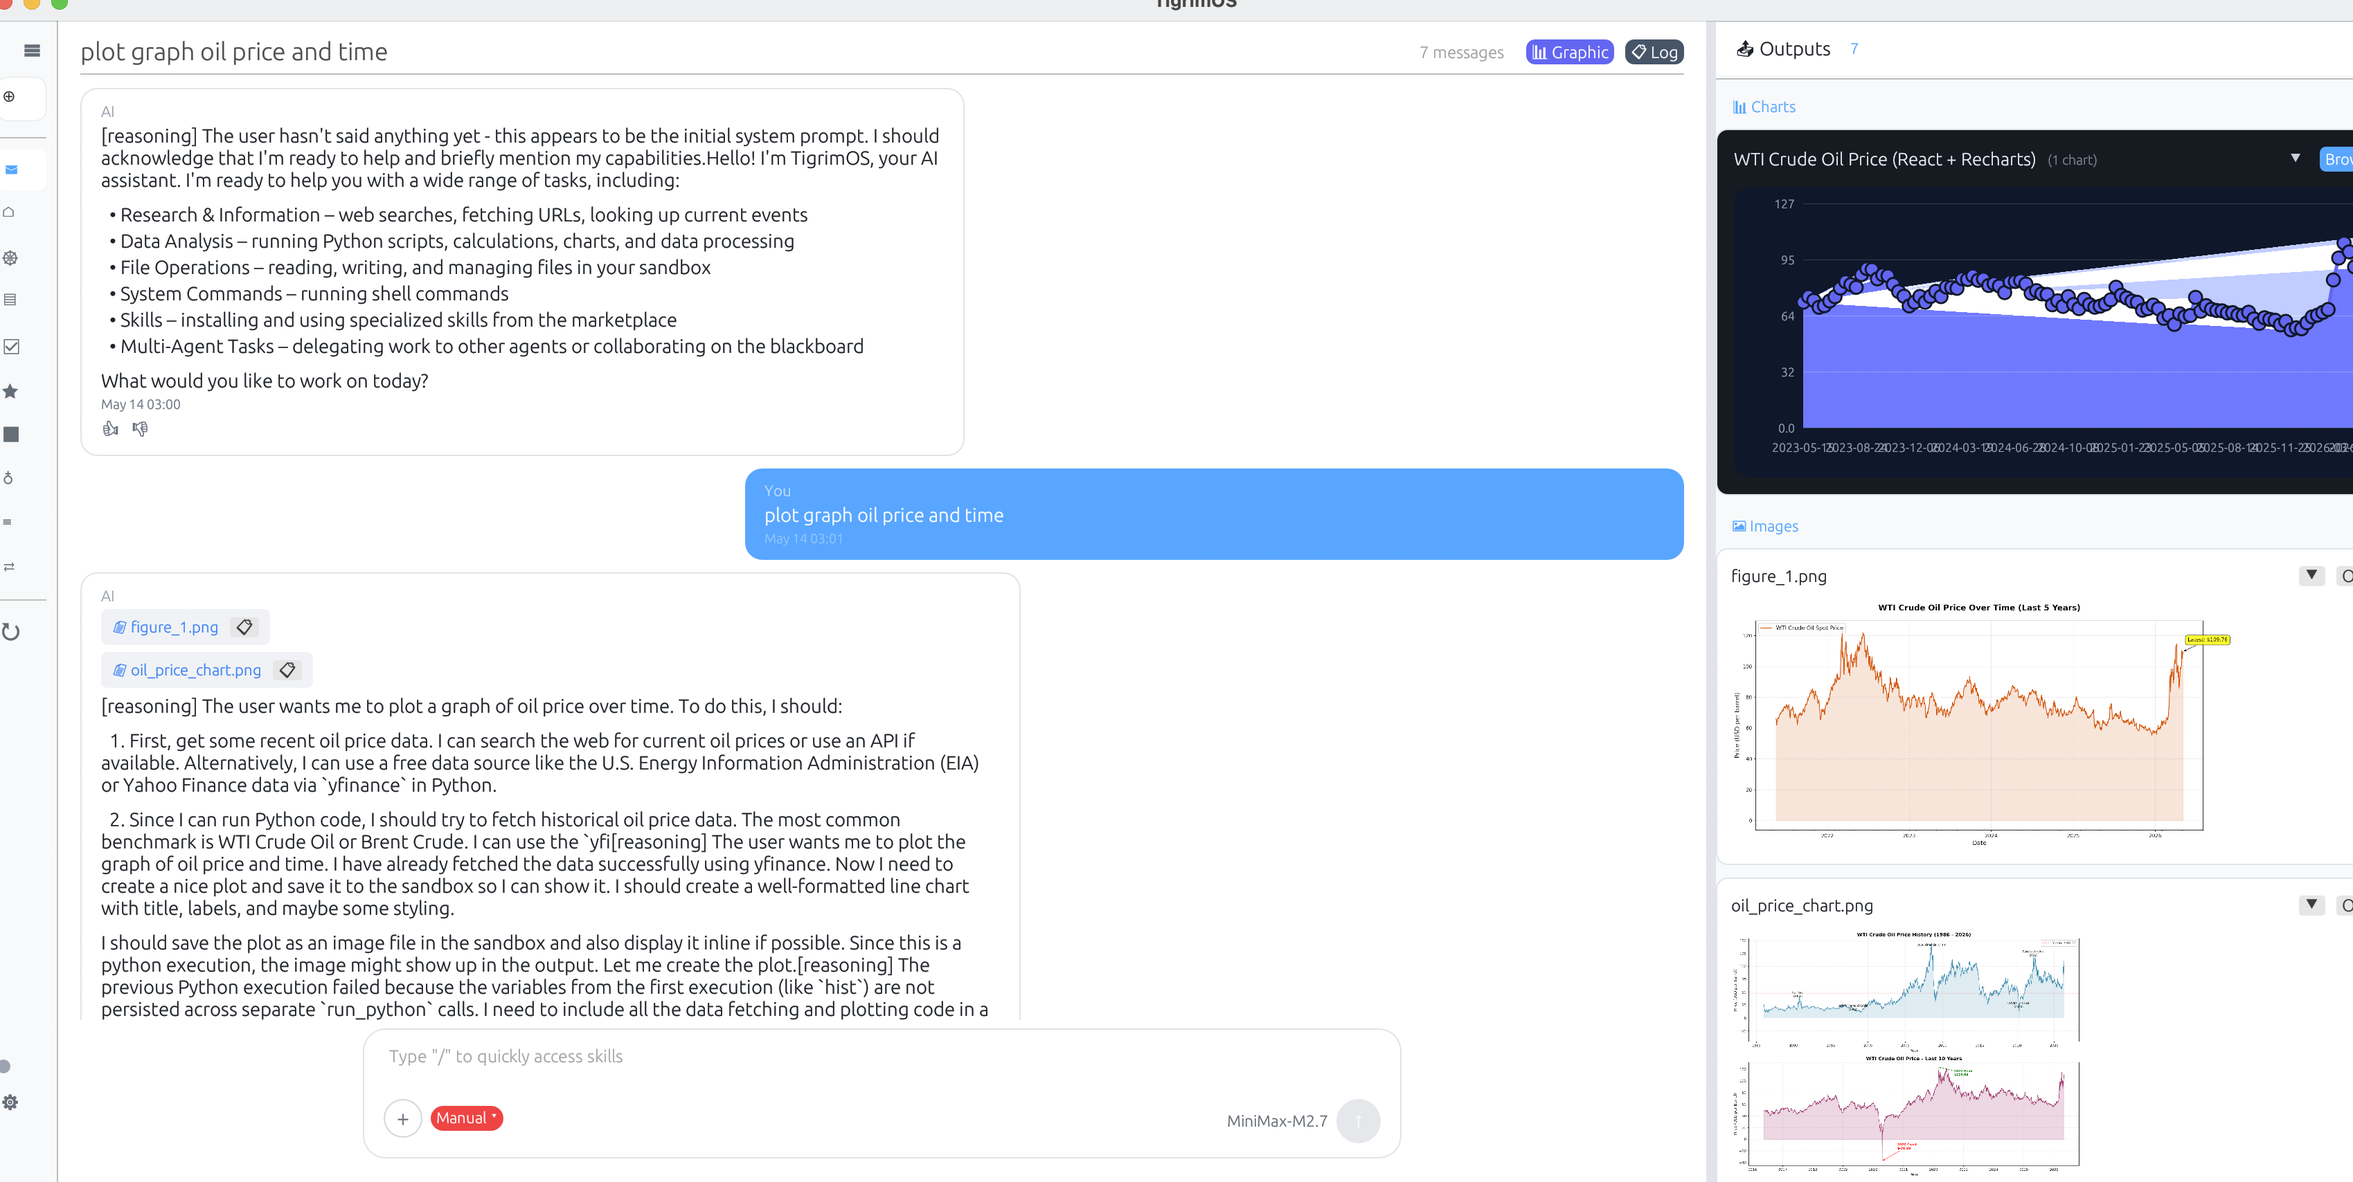
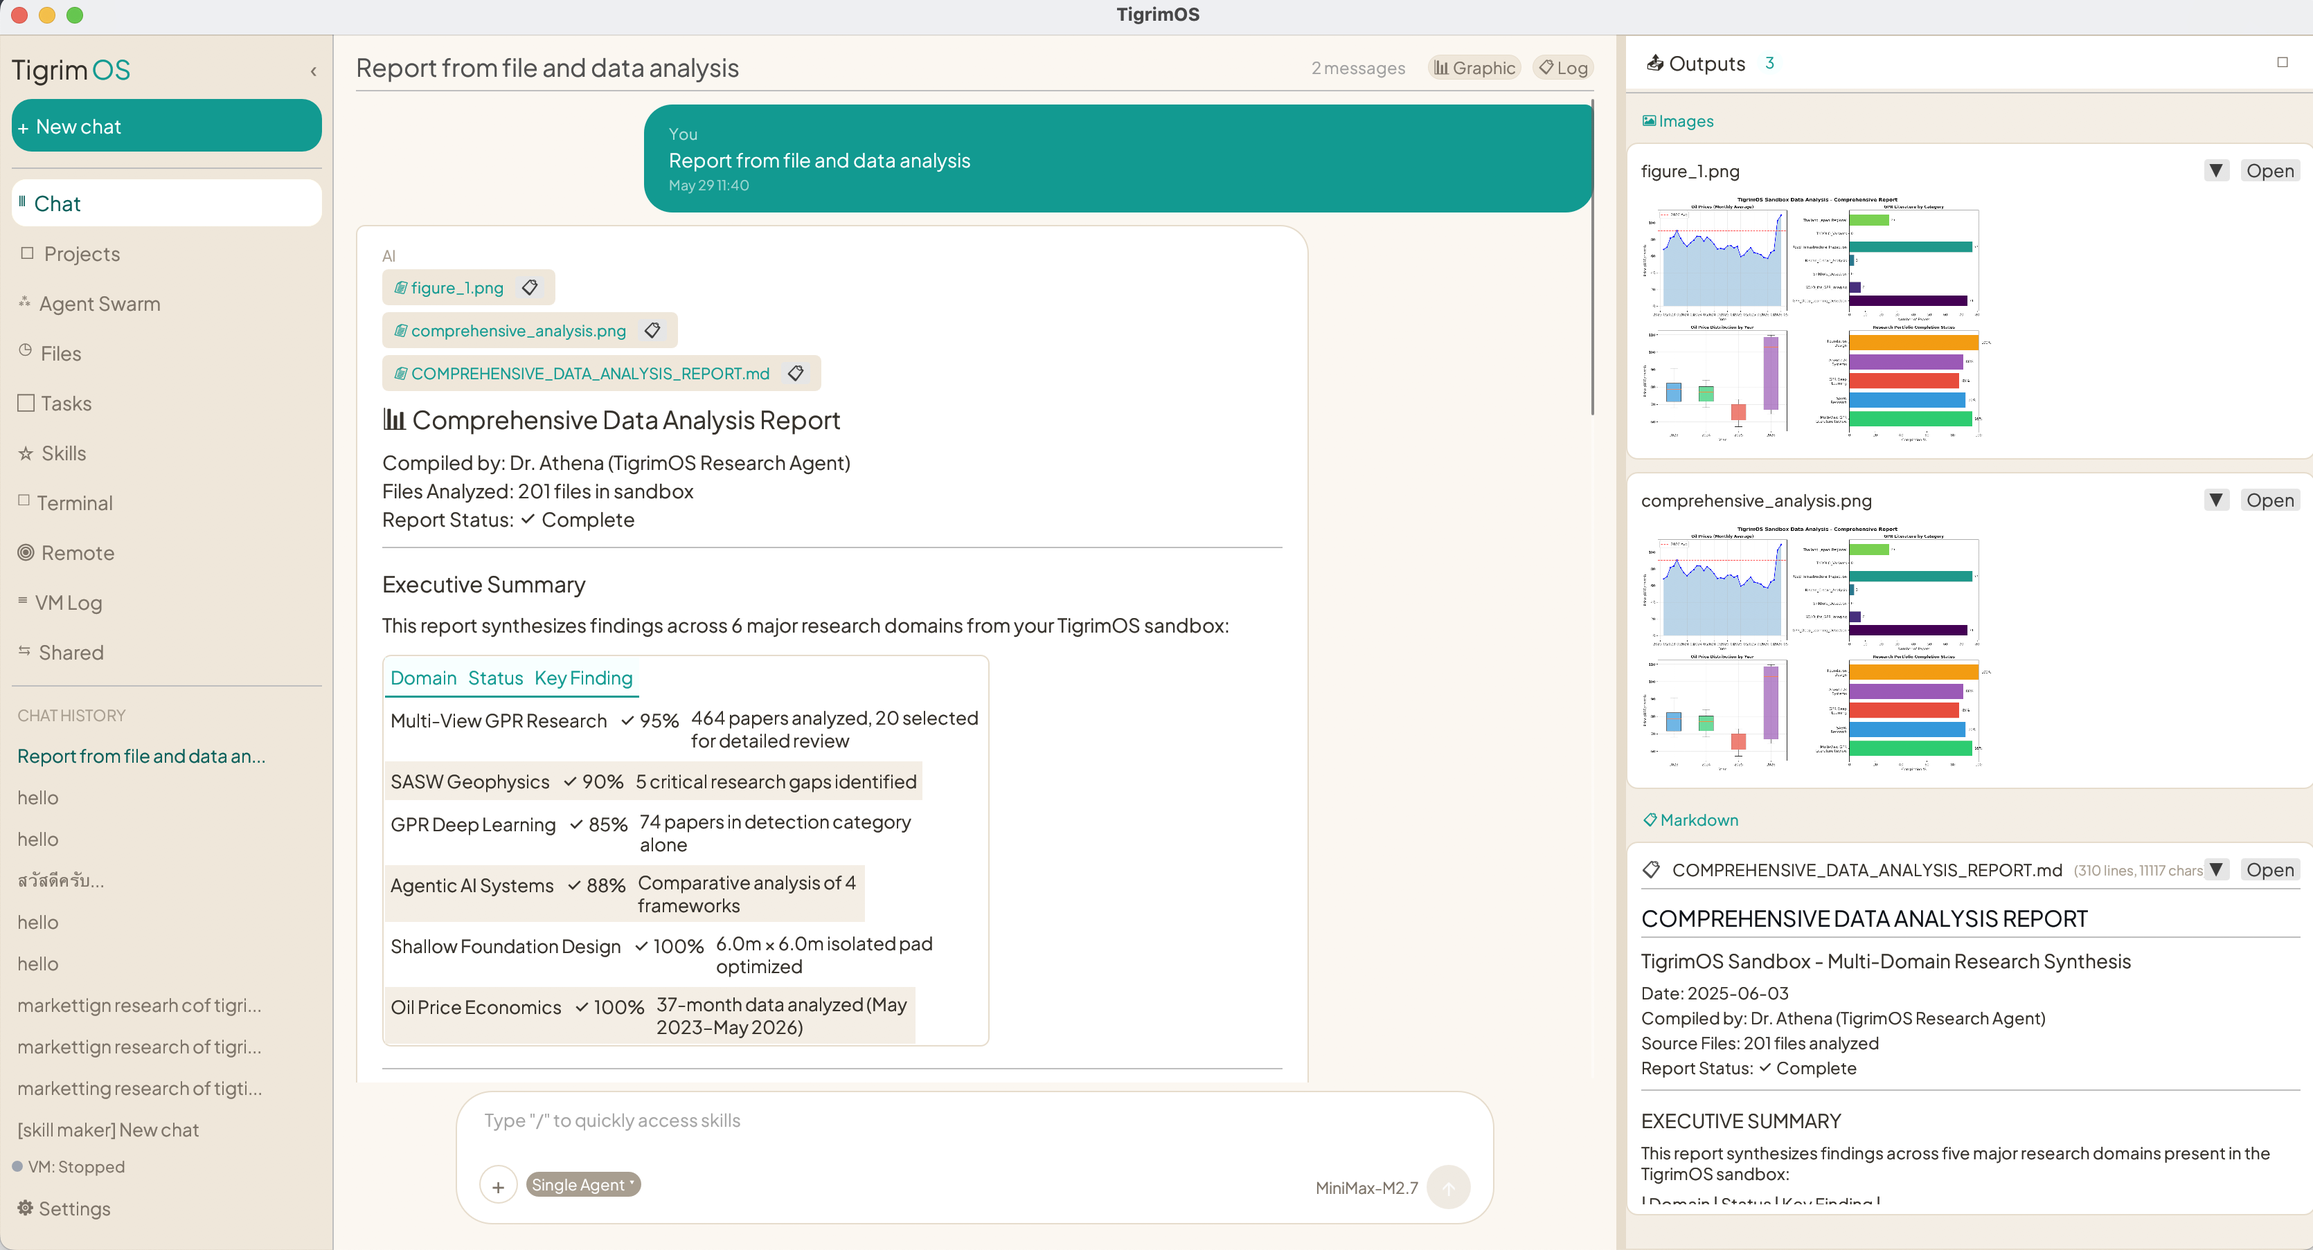
style: Warm theme for Files/Settings, remove chat bubble border, update screenshots
Apply warm neutral palette to files_view.rs and settings.rs (sidebar, text, borders,
highlights, tab bar). Remove AI chat bubble stroke and Agent Swarm separators.
Update README screenshots to reflect the new theme.

diff --git a/src/ui/files_view.rs b/src/ui/files_view.rs
@@ -798,7 +798,7 @@ impl FilesView {
                 ui.label(
                     egui::RichText::new(trimmed)
                         .monospace()
-                        .color(egui::Color32::from_rgb(150, 150, 150)),
+                        .color(egui::Color32::from_rgb(168, 158, 144)),
                 );
             } else if trimmed.is_empty() {
                 ui.add_space(4.0);
@@ -891,9 +891,9 @@ impl FilesView {
     // ── Sidebar rendering ──
 
     fn render_sidebar(&mut self, ui: &mut egui::Ui) {
-        let sidebar_bg = egui::Color32::from_rgb(247, 247, 248);
-        let text_dim = egui::Color32::from_rgb(100, 100, 105);
-        let text_normal = egui::Color32::from_rgb(30, 30, 32);
+        let sidebar_bg = egui::Color32::from_rgb(244, 238, 229);
+        let text_dim = egui::Color32::from_rgb(124, 115, 104);
+        let text_normal = egui::Color32::from_rgb(52, 48, 42);
         let accent = egui::Color32::from_rgb(18, 154, 145);
 
         ui.painter().rect_filled(
@@ -958,7 +958,7 @@ impl FilesView {
         for (label, section, count) in &lib_items {
             let is_active = self.active_section == *section;
             let bg = if is_active {
-                egui::Color32::from_rgb(232, 232, 235)
+                egui::Color32::from_rgb(239, 231, 218)
             } else {
                 egui::Color32::TRANSPARENT
             };
@@ -1015,7 +1015,7 @@ impl FilesView {
         for (dir_name, count) in &places_clone {
             let is_active = self.active_section == LibrarySection::Place(dir_name.clone());
             let bg = if is_active {
-                egui::Color32::from_rgb(232, 232, 235)
+                egui::Color32::from_rgb(239, 231, 218)
             } else {
                 egui::Color32::TRANSPARENT
             };
@@ -1099,7 +1099,7 @@ impl FilesView {
                 ui.painter().rect_filled(
                     bar_rect,
                     2.0,
-                    egui::Color32::from_rgb(210, 210, 215),
+                    egui::Color32::from_rgb(230, 220, 204),
                 );
                 let filled = egui::Rect::from_min_size(
                     bar_rect.min,
@@ -1345,7 +1345,7 @@ impl FilesView {
                 egui::pos2(full_rect.min.x + sidebar_w, full_rect.min.y),
                 egui::pos2(full_rect.min.x + sidebar_w, full_rect.max.y),
             ],
-            egui::Stroke::new(1.0, egui::Color32::from_rgb(230, 230, 232)),
+            egui::Stroke::new(1.0, egui::Color32::from_rgb(230, 220, 204)),
         );
 
         let mut main_ui = ui.new_child(
@@ -1358,15 +1358,15 @@ impl FilesView {
     }
 
     fn render_main_area(&mut self, ui: &mut egui::Ui, runtime: &tokio::runtime::Handle) {
-        let text_dim = egui::Color32::from_rgb(134, 134, 139);
-        let text_normal = egui::Color32::from_rgb(29, 29, 31);
+        let text_dim = egui::Color32::from_rgb(168, 158, 144);
+        let text_normal = egui::Color32::from_rgb(52, 48, 42);
         let accent = egui::Color32::from_rgb(18, 154, 145);
 
-        // White background
+        // Warm surface background
         ui.painter().rect_filled(
             ui.available_rect_before_wrap(),
             0.0,
-            egui::Color32::WHITE,
+            egui::Color32::from_rgb(251, 247, 241),
         );
 
         ui.add_space(8.0);
@@ -1485,7 +1485,7 @@ impl FilesView {
                             .size(12.0)
                             .color(egui::Color32::WHITE),
                     )
-                    .fill(egui::Color32::from_rgb(230, 230, 232))
+                    .fill(egui::Color32::from_rgb(230, 220, 204))
                     .corner_radius(6.0),
                 );
                 if new_btn.clicked() {
@@ -1544,7 +1544,7 @@ impl FilesView {
             ui.add_space(12.0);
             let search_w = 200.0_f32.min(ui.available_width() * 0.3);
             egui::Frame::NONE
-                .fill(egui::Color32::from_rgb(240, 240, 242))
+                .fill(egui::Color32::from_rgb(239, 231, 218))
                 .corner_radius(8.0)
                 .inner_margin(egui::Margin::symmetric(8, 4))
                 .show(ui, |ui| {
@@ -1684,7 +1684,7 @@ impl FilesView {
         if !self.selected_set.is_empty() {
             ui.add_space(4.0);
             egui::Frame::NONE
-                .fill(egui::Color32::from_rgb(240, 245, 255))
+                .fill(egui::Color32::from_rgb(239, 231, 218))
                 .corner_radius(8.0)
                 .inner_margin(egui::Margin::symmetric(12, 6))
                 .outer_margin(egui::Margin::symmetric(12, 0))
@@ -1707,7 +1707,7 @@ impl FilesView {
                                         .size(12.0)
                                         .color(egui::Color32::WHITE),
                                 )
-                                .fill(egui::Color32::from_rgb(107, 114, 128))
+                                .fill(egui::Color32::from_rgb(168, 158, 144))
                                 .corner_radius(6.0),
                             )
                             .clicked()
@@ -1821,7 +1821,7 @@ impl FilesView {
                 egui::pos2(ui.min_rect().min.x + 12.0, ui.cursor().min.y),
                 egui::pos2(ui.min_rect().max.x - 8.0, ui.cursor().min.y),
             ],
-            egui::Stroke::new(0.5, egui::Color32::from_rgb(230, 230, 232)),
+            egui::Stroke::new(0.5, egui::Color32::from_rgb(230, 220, 204)),
         );
         ui.add_space(2.0);
 
@@ -1885,13 +1885,13 @@ impl FilesView {
                         ui.painter().rect_filled(
                             row_rect,
                             0.0,
-                            egui::Color32::from_rgb(219, 234, 254),
+                            egui::Color32::from_rgb(225, 241, 239),
                         );
                     } else if hovered {
                         ui.painter().rect_filled(
                             row_rect,
                             0.0,
-                            egui::Color32::from_rgb(245, 245, 247),
+                            egui::Color32::from_rgb(244, 238, 229),
                         );
                     }
 

diff --git a/src/ui/chat.rs b/src/ui/chat.rs
@@ -3476,11 +3476,7 @@ You have access to these tools: {}.{}",
 
         ui.with_layout(layout, |ui| {
             let max_bubble_width = (ui.available_width() * 0.75).min(650.0);
-            let bubble_stroke = if is_user {
-                egui::Stroke::NONE
-            } else {
-                egui::Stroke::new(1.0, egui::Color32::from_rgb(230, 220, 204))
-            };
+            let bubble_stroke = egui::Stroke::NONE;
 
             // Asymmetric corners: AI = 6/20/20/20, User = 20/6/20/20
             let bubble_radius = if is_user {
@@ -3569,47 +3565,52 @@ You have access to these tools: {}.{}",
                             }),
                     );
 
-                    // Feedback buttons for assistant messages
+                    // Feedback buttons — outline icon style (matching template)
                     if !is_user {
+                        ui.add_space(4.0);
                         ui.horizontal(|ui| {
+                            ui.spacing_mut().item_spacing.x = 4.0;
                             let current_rating = msg
                                 .feedback
                                 .as_ref()
                                 .and_then(|f| f.rating.as_deref());
 
-                            let thumbs_up_color = if current_rating == Some("up") {
-                                egui::Color32::from_rgb(34, 197, 94) // green
-                            } else {
-                                egui::Color32::from_rgb(168, 158, 144) // gray
-                            };
-                            let thumbs_down_color = if current_rating == Some("down") {
-                                egui::Color32::from_rgb(239, 68, 68) // red
-                            } else {
-                                egui::Color32::from_rgb(168, 158, 144) // gray
-                            };
+                            let default_color = egui::Color32::from_rgb(168, 158, 144);
 
-                            if ui
-                                .add(egui::Button::new(
-                                    egui::RichText::new("\u{1F44D}")
-                                        .size(13.0)
-                                        .color(thumbs_up_color),
-                                ).frame(false))
-                                .on_hover_text("Good response")
-                                .clicked()
-                            {
+                            // Thumbs up
+                            let up_color = if current_rating == Some("up") {
+                                egui::Color32::from_rgb(18, 154, 145) // teal active
+                            } else { default_color };
+                            let up_bg = if current_rating == Some("up") {
+                                egui::Color32::from_rgb(225, 241, 239) // accent-soft
+                            } else { egui::Color32::TRANSPARENT };
+                            if ui.add(
+                                egui::Button::new(egui::RichText::new("\u{25B3}").size(14.0).color(up_color)) // △
+                                    .fill(up_bg).corner_radius(9.0).min_size(egui::vec2(32.0, 32.0))
+                            ).on_hover_text("Helpful").clicked() {
                                 feedback_action = Some((index, "up".to_string()));
                             }
 
-                            if ui
-                                .add(egui::Button::new(
-                                    egui::RichText::new("\u{1F44E}")
-                                        .size(13.0)
-                                        .color(thumbs_down_color),
-                                ).frame(false))
-                                .on_hover_text("Bad response")
-                                .clicked()
-                            {
+                            // Thumbs down
+                            let down_color = if current_rating == Some("down") {
+                                egui::Color32::from_rgb(201, 85, 78) // warm red
+                            } else { default_color };
+                            let down_bg = if current_rating == Some("down") {
+                                egui::Color32::from_rgb(247, 229, 227) // red-soft
+                            } else { egui::Color32::TRANSPARENT };
+                            if ui.add(
+                                egui::Button::new(egui::RichText::new("\u{25BD}").size(14.0).color(down_color)) // ▽
+                                    .fill(down_bg).corner_radius(9.0).min_size(egui::vec2(32.0, 32.0))
+                            ).on_hover_text("Not helpful").clicked() {
                                 feedback_action = Some((index, "down".to_string()));
+                            }
+
+                            // Copy button
+                            if ui.add(
+                                egui::Button::new(egui::RichText::new("\u{2750}").size(14.0).color(default_color)) // ❐
+                                    .fill(egui::Color32::TRANSPARENT).corner_radius(9.0).min_size(egui::vec2(32.0, 32.0))
+                            ).on_hover_text("Copy").clicked() {
+                                ui.ctx().copy_text(msg.content.clone());
                             }
                         });
                     }

diff --git a/src/ui/settings.rs b/src/ui/settings.rs
@@ -311,7 +311,7 @@ impl SettingsView {
             .show(ctx, |ui| {
                 // Tab bar — plain horizontal wrap, no scroll area (avoids dark hover band)
                 egui::Frame::new()
-                    .fill(egui::Color32::WHITE)
+                    .fill(egui::Color32::from_rgb(251, 247, 241))
                     .inner_margin(egui::Margin::symmetric(0, 2))
                     .show(ui, |ui| {
                         ui.horizontal_wrapped(|ui| {
@@ -329,11 +329,11 @@ impl SettingsView {
                                         .color(if is_selected {
                                             accent
                                         } else {
-                                            egui::Color32::from_rgb(101, 109, 118)
+                                            egui::Color32::from_rgb(124, 115, 104)
                                         }),
                                 )
                                 .fill(if is_selected {
-                                    egui::Color32::from_rgba_premultiplied(88, 166, 255, 20)
+                                    egui::Color32::from_rgba_premultiplied(18, 154, 145, 20)
                                 } else {
                                     egui::Color32::TRANSPARENT
                                 })
@@ -663,7 +663,7 @@ impl SettingsView {
                 VmState::Running if service_ready => egui::Color32::from_rgb(34, 197, 94),
                 VmState::Running => egui::Color32::from_rgb(250, 204, 21),
                 VmState::Error => egui::Color32::from_rgb(239, 68, 68),
-                VmState::Stopped => egui::Color32::from_rgb(156, 163, 175),
+                VmState::Stopped => egui::Color32::from_rgb(168, 158, 144),
                 _ => egui::Color32::from_rgb(18, 154, 145),
             };
             ui.horizontal(|ui| {
@@ -1174,11 +1174,11 @@ impl SettingsView {
 
             ui.add_space(4.0);
             egui::Frame::new()
-                .fill(egui::Color32::from_rgb(240, 242, 245))
+                .fill(egui::Color32::from_rgb(239, 231, 218))
                 .corner_radius(8.0)
                 .inner_margin(egui::Margin::same(10))
                 .show(ui, |ui| {
-                    let tc = egui::Color32::from_rgb(50, 55, 65);
+                    let tc = egui::Color32::from_rgb(52, 48, 42);
                     ui.label(egui::RichText::new("Key Distinction:").strong().size(11.0).color(tc));
                     ui.add_space(4.0);
                     egui::Grid::new("soul_identity_table")
@@ -2110,7 +2110,7 @@ impl SettingsView {
         ui.label(
             egui::RichText::new("Automatically generates reusable skills from your chat sessions using LLM analysis.")
                 .size(12.0)
-                .color(egui::Color32::from_rgb(156, 163, 175)),
+                .color(egui::Color32::from_rgb(168, 158, 144)),
         );
         ui.add_space(8.0);
 
@@ -2265,7 +2265,7 @@ impl SettingsView {
                 let _proposal_name = proposal.name.clone();
 
                 egui::Frame::new()
-                    .fill(egui::Color32::from_rgba_premultiplied(88, 166, 255, 12))
+                    .fill(egui::Color32::from_rgba_premultiplied(18, 154, 145, 12))
                     .corner_radius(8.0)
                     .inner_margin(egui::Margin::same(10))
                     .stroke(egui::Stroke::new(
@@ -2306,7 +2306,7 @@ impl SettingsView {
                             ui.label(
                                 egui::RichText::new(&proposal.description)
                                     .size(12.0)
-                                    .color(egui::Color32::from_rgb(156, 163, 175)),
+                                    .color(egui::Color32::from_rgb(168, 158, 144)),
                             );
 
                             if !proposal.rationale.is_empty() {
@@ -2317,7 +2317,7 @@ impl SettingsView {
                                     ))
                                     .size(11.0)
                                     .italics()
-                                    .color(egui::Color32::from_rgb(107, 114, 128)),
+                                    .color(egui::Color32::from_rgb(168, 158, 144)),
                                 );
                             }
 
@@ -2423,7 +2423,7 @@ impl SettingsView {
                     ui.label(
                         egui::RichText::new(&proposal.review_status)
                             .size(11.0)
-                            .color(egui::Color32::from_rgb(107, 114, 128)),
+                            .color(egui::Color32::from_rgb(168, 158, 144)),
                     );
                 });
             }

diff --git a/src/ui/agents_view.rs b/src/ui/agents_view.rs
@@ -289,7 +289,6 @@ impl AgentsView {
                     });
 
                 ui.add_space(4.0);
-                ui.separator();
                 ui.add_space(4.0);
 
                 // Auto Architecture
@@ -343,7 +342,6 @@ impl AgentsView {
                 }
 
                 ui.add_space(4.0);
-                ui.separator();
                 ui.add_space(4.0);
 
                 // Add agent + Save + Apply
@@ -382,8 +380,6 @@ impl AgentsView {
                     ui.label(RichText::new(msg).size(10.0).color(color));
                 }
             });
-
-            ui.separator();
 
             // --- Center: Graph Canvas (full remaining width) ---
             let canvas_width = available.x - sidebar_w - 20.0;
